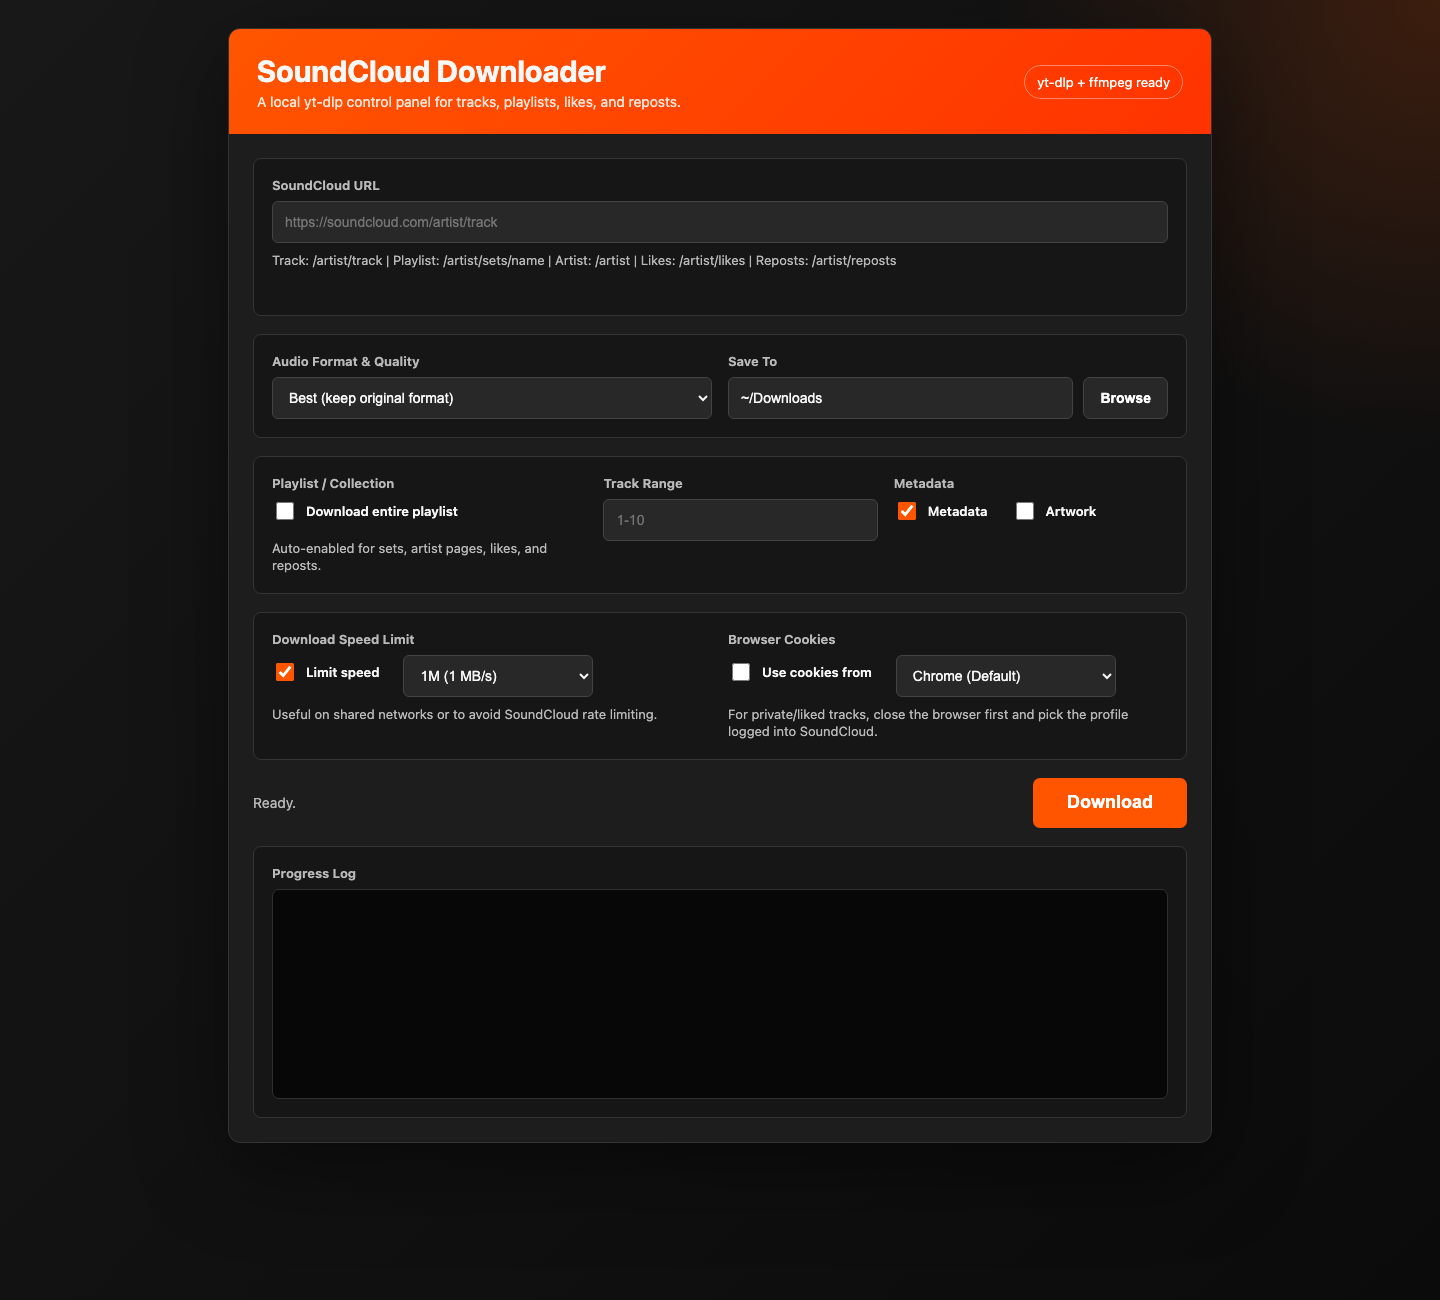
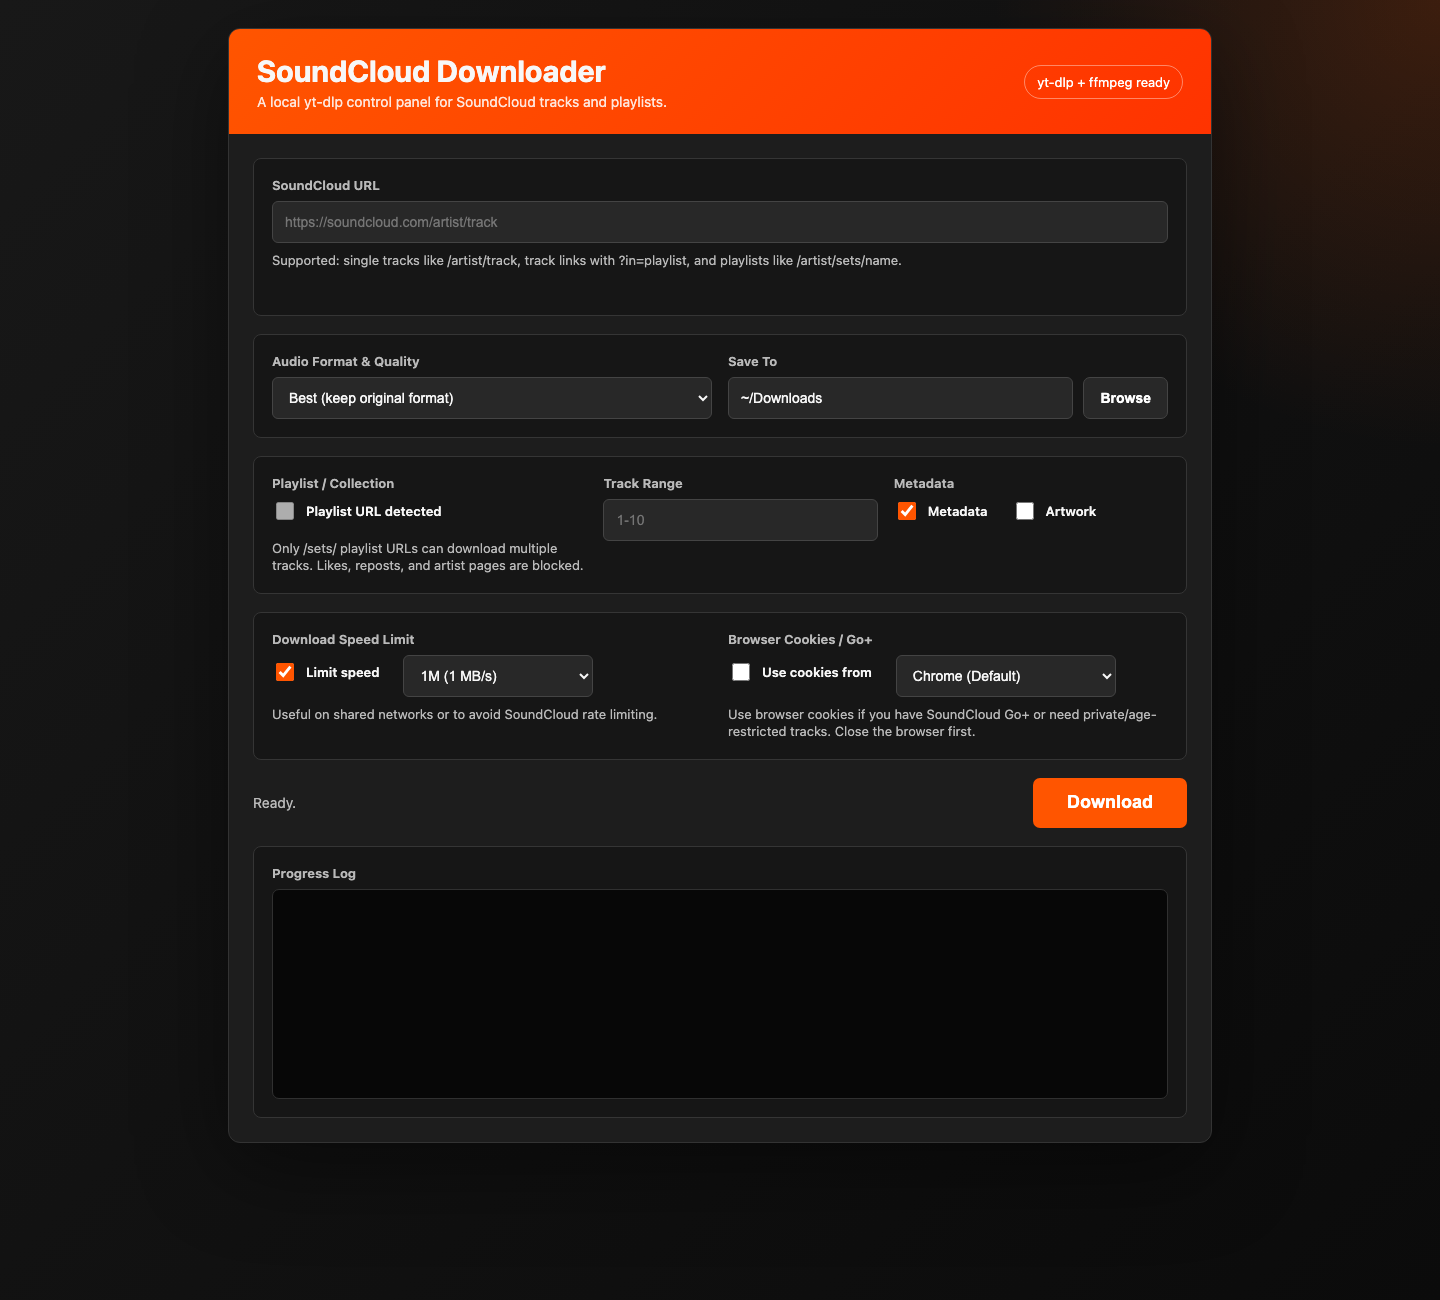
Clarify Go+ cookies and limit URL support

diff --git a/src/soundcloud_webapp.py b/src/soundcloud_webapp.py
@@ -5,6 +5,7 @@ import re
 import subprocess
 import threading
 from http.server import BaseHTTPRequestHandler, ThreadingHTTPServer
+from urllib.parse import urlparse
 
 
 HOME = os.path.expanduser("~")
@@ -18,6 +19,10 @@ else:
 FFMPEG = os.path.join(FFMPEG_DIR, "ffmpeg")
 DEFAULT_OUTPUT = os.path.join(HOME, "Downloads")
 DEFAULT_OUTPUT_DISPLAY = "~/Downloads"
+UNSUPPORTED_URL_MESSAGE = (
+    "Supported SoundCloud URLs are single tracks and /sets/ playlists only. "
+    "Artist pages, likes pages, and reposts pages are intentionally blocked."
+)
 
 state = {
     "running": False,
@@ -27,6 +32,32 @@ state = {
     "process": None,
 }
 lock = threading.Lock()
+
+
+def classify_soundcloud_url(raw_url):
+    candidate = raw_url.strip()
+    if not candidate:
+        return None, "Paste a SoundCloud URL first"
+    if "://" not in candidate:
+        candidate = "https://" + candidate
+
+    parsed = urlparse(candidate)
+    host = parsed.netloc.lower()
+    if host.startswith("www."):
+        host = host[4:]
+    if host not in {"soundcloud.com", "m.soundcloud.com"}:
+        return None, "Paste a SoundCloud URL from soundcloud.com"
+
+    parts = [part for part in parsed.path.split("/") if part]
+    if len(parts) >= 3 and parts[1] == "sets":
+        return "playlist", None
+    if len(parts) == 2 and parts[1] in {"likes", "reposts"}:
+        return None, UNSUPPORTED_URL_MESSAGE
+    if len(parts) == 1:
+        return None, UNSUPPORTED_URL_MESSAGE
+    if len(parts) == 2:
+        return "track", None
+    return None, UNSUPPORTED_URL_MESSAGE
 
 
 HTML = r"""<!doctype html>
@@ -164,7 +195,7 @@ pre {
     <header class="hero">
       <div>
         <h1>SoundCloud Downloader</h1>
-        <div class="sub">A local yt-dlp control panel for tracks, playlists, likes, and reposts.</div>
+        <div class="sub">A local yt-dlp control panel for SoundCloud tracks and playlists.</div>
       </div>
       <div class="badge" id="readyBadge">Checking tools...</div>
     </header>
@@ -173,7 +204,7 @@ pre {
       <section class="card">
         <label for="url">SoundCloud URL</label>
         <input id="url" placeholder="https://soundcloud.com/artist/track">
-        <div class="hint">Track: /artist/track | Playlist: /artist/sets/name | Artist: /artist | Likes: /artist/likes | Reposts: /artist/reposts</div>
+        <div class="hint">Supported: single tracks like /artist/track, track links with ?in=playlist, and playlists like /artist/sets/name.</div>
         <div class="hint detect" id="detected"></div>
       </section>
 
@@ -201,8 +232,8 @@ pre {
       <section class="card grid3">
         <div>
           <label>Playlist / Collection</label>
-          <div class="checks"><label class="check"><input type="checkbox" id="playlist"> Download entire playlist</label></div>
-          <div class="hint">Auto-enabled for sets, artist pages, likes, and reposts.</div>
+          <div class="checks"><label class="check"><input type="checkbox" id="playlist"> Playlist URL detected</label></div>
+          <div class="hint">Only /sets/ playlist URLs can download multiple tracks. Likes, reposts, and artist pages are blocked.</div>
         </div>
         <div>
           <label for="range">Track Range</label>
@@ -232,7 +263,7 @@ pre {
           <div class="hint">Useful on shared networks or to avoid SoundCloud rate limiting.</div>
         </div>
         <div>
-          <label>Browser Cookies</label>
+          <label>Browser Cookies / Go+</label>
           <div class="checks">
             <label class="check"><input type="checkbox" id="useCookies"> Use cookies from</label>
             <select id="browser" style="max-width: 220px">
@@ -246,7 +277,7 @@ pre {
               <option>Vivaldi</option>
             </select>
           </div>
-          <div class="hint">For private/liked tracks, close the browser first and pick the profile logged into SoundCloud.</div>
+          <div class="hint">Use browser cookies if you have SoundCloud Go+ or need private/age-restricted tracks. Close the browser first.</div>
         </div>
       </section>
 
@@ -278,13 +309,33 @@ async function init() {
 function detect() {
   const raw = $('url').value.trim().toLowerCase().replace(/^https?:\/\//, '').replace(/^www\./, '').split(/[?#]/)[0].replace(/\/$/, '');
   const out = $('detected');
+  $('playlist').checked = false;
+  $('playlist').disabled = true;
+  $('range').disabled = true;
   if (!raw) { out.textContent = ''; return; }
   if (!raw.startsWith('soundcloud.com/')) { out.textContent = 'Paste a SoundCloud URL'; return; }
   const seg = raw.replace('soundcloud.com/', '').split('/');
-  if (seg.length === 1) { out.textContent = 'Detected: Artist page - all tracks'; $('playlist').checked = true; }
-  else if (seg.length >= 3 && seg[1] === 'sets') { out.textContent = 'Detected: Playlist / Set'; $('playlist').checked = true; }
-  else if (seg.length === 2 && ['likes','reposts'].includes(seg[1])) { out.textContent = `Detected: ${seg[1]} - cookies may be needed`; $('playlist').checked = true; }
-  else if (seg.length === 2) { out.textContent = 'Detected: Single track'; $('playlist').checked = false; }
+  if (seg.length >= 3 && seg[1] === 'sets') {
+    out.textContent = 'Detected: Playlist / Set';
+    $('playlist').checked = true;
+    $('range').disabled = false;
+  }
+  else if (seg.length === 2 && ['likes','reposts'].includes(seg[1])) {
+    out.textContent = `${seg[1][0].toUpperCase() + seg[1].slice(1)} pages are blocked to avoid huge downloads. Paste a single track or /sets/ playlist.`;
+    $('playlist').checked = false;
+  }
+  else if (seg.length === 1) {
+    out.textContent = 'Artist pages are blocked. Paste a single track or /sets/ playlist.';
+    $('playlist').checked = false;
+  }
+  else if (seg.length === 2) {
+    out.textContent = 'Detected: Single track';
+    $('playlist').checked = false;
+  }
+  else {
+    out.textContent = 'Unsupported SoundCloud URL. Paste a single track or /sets/ playlist.';
+    $('playlist').checked = false;
+  }
 }
 
 function payload() {
@@ -459,6 +510,10 @@ class Handler(BaseHTTPRequestHandler):
         if not url:
             self.send_json({"ok": False, "error": "Paste a SoundCloud URL first"}, 400)
             return
+        url_kind, url_error = classify_soundcloud_url(url)
+        if url_error:
+            self.send_json({"ok": False, "error": url_error}, 400)
+            return
         output = os.path.expanduser((data.get("output") or DEFAULT_OUTPUT).strip())
         os.makedirs(output, exist_ok=True)
 
@@ -484,7 +539,7 @@ class Handler(BaseHTTPRequestHandler):
             args += ["--cookies-from-browser", browser_arg(data.get("browser") or "Chrome (Default)")]
         if os.path.exists(FFMPEG):
             args += ["--ffmpeg-location", FFMPEG_DIR]
-        if data.get("playlist"):
+        if url_kind == "playlist":
             if (data.get("range") or "").strip():
                 args += ["--playlist-items", data["range"].strip()]
             args += ["-o", os.path.join(output, "%(playlist_index)02d - %(uploader)s - %(title)s.%(ext)s")]

diff --git a/README.md b/README.md
@@ -1,6 +1,6 @@
 # SoundCloud Downloader
 
-A small macOS app wrapper around [yt-dlp](https://github.com/yt-dlp/yt-dlp) for downloading SoundCloud tracks, playlists, artist pages, likes, and reposts.
+A small macOS app wrapper around [yt-dlp](https://github.com/yt-dlp/yt-dlp) for downloading SoundCloud tracks and playlists.
 
 It runs a local control panel in your browser at `http://127.0.0.1:8765/`, with a SoundCloud-inspired interface and live download logs.
 
@@ -10,7 +10,8 @@ It runs a local control panel in your browser at `http://127.0.0.1:8765/`, with 
 
 ## Features
 
-- SoundCloud URL detection for tracks, sets, artist pages, likes, and reposts
+- SoundCloud URL detection for single tracks and `/sets/` playlists
+- Track links with playlist context, such as URLs containing `?in=...`
 - Best original audio by default
 - Optional MP3, FLAC, and OGG conversion through ffmpeg
 - Playlist range support, such as `1-10` or `5-5`
@@ -41,7 +42,7 @@ http://127.0.0.1:8765/
 
 ## Cookies
 
-For private tracks, liked tracks, or age-restricted content:
+Use browser cookies if you have **SoundCloud Go+**. Go+ access, private tracks, and age-restricted tracks may depend on your logged-in browser session.
 
 1. Log into SoundCloud in your browser.
 2. Close that browser.
@@ -49,6 +50,16 @@ For private tracks, liked tracks, or age-restricted content:
 4. Pick the profile where you are logged in, usually **Chrome (Default)**.
 
 The app does not store or upload cookies. It passes the selected browser profile to yt-dlp locally.
+
+## Supported URLs
+
+The app intentionally supports only:
+
+- Single tracks: `https://soundcloud.com/artist/track`
+- Single track links with playlist context appended, such as `?in=artist/sets/playlist`
+- Playlists/sets: `https://soundcloud.com/artist/sets/playlist`
+
+The app blocks whole artist pages, likes pages, and reposts pages. Those pages can contain thousands of tracks and are too easy to start accidentally.
 
 ## Quality Notes
 
@@ -77,4 +88,3 @@ APP_PATH="$HOME/Desktop/SoundCloud Downloader.app" ./scripts/build_app.sh --down
 ## Troubleshooting
 
 See [docs/troubleshooting.md](docs/troubleshooting.md).
-

diff --git a/docs/troubleshooting.md b/docs/troubleshooting.md
@@ -26,13 +26,25 @@ xattr -dr com.apple.quarantine "/Applications/SoundCloud Downloader.app"
 
 ## Cookies do not work
 
+Use browser cookies if you have SoundCloud Go+. Go+ playback, private tracks, and age-restricted tracks may require the same logged-in browser session you use on soundcloud.com.
+
 For Chrome, choose the profile where you are logged into SoundCloud. Most people should start with:
 
 ```text
 Chrome (Default)
 ```
 
-Close Chrome before downloading private, liked, or age-restricted tracks. Chromium browsers can lock their cookie database while running.
+Close Chrome before downloading Go+, private, or age-restricted tracks. Chromium browsers can lock their cookie database while running.
+
+## Likes, reposts, and artist pages are blocked
+
+This is intentional. Likes, reposts, and artist pages can contain thousands of tracks, which makes accidental huge downloads too easy.
+
+Use one of these instead:
+
+- A single track URL
+- A single track URL with playlist context appended
+- A `/sets/` playlist URL
 
 ## Downloads are lower quality than expected
 
@@ -53,4 +65,3 @@ The app writes startup logs here:
 ```text
 /tmp/soundcloud-downloader.log
 ```
-